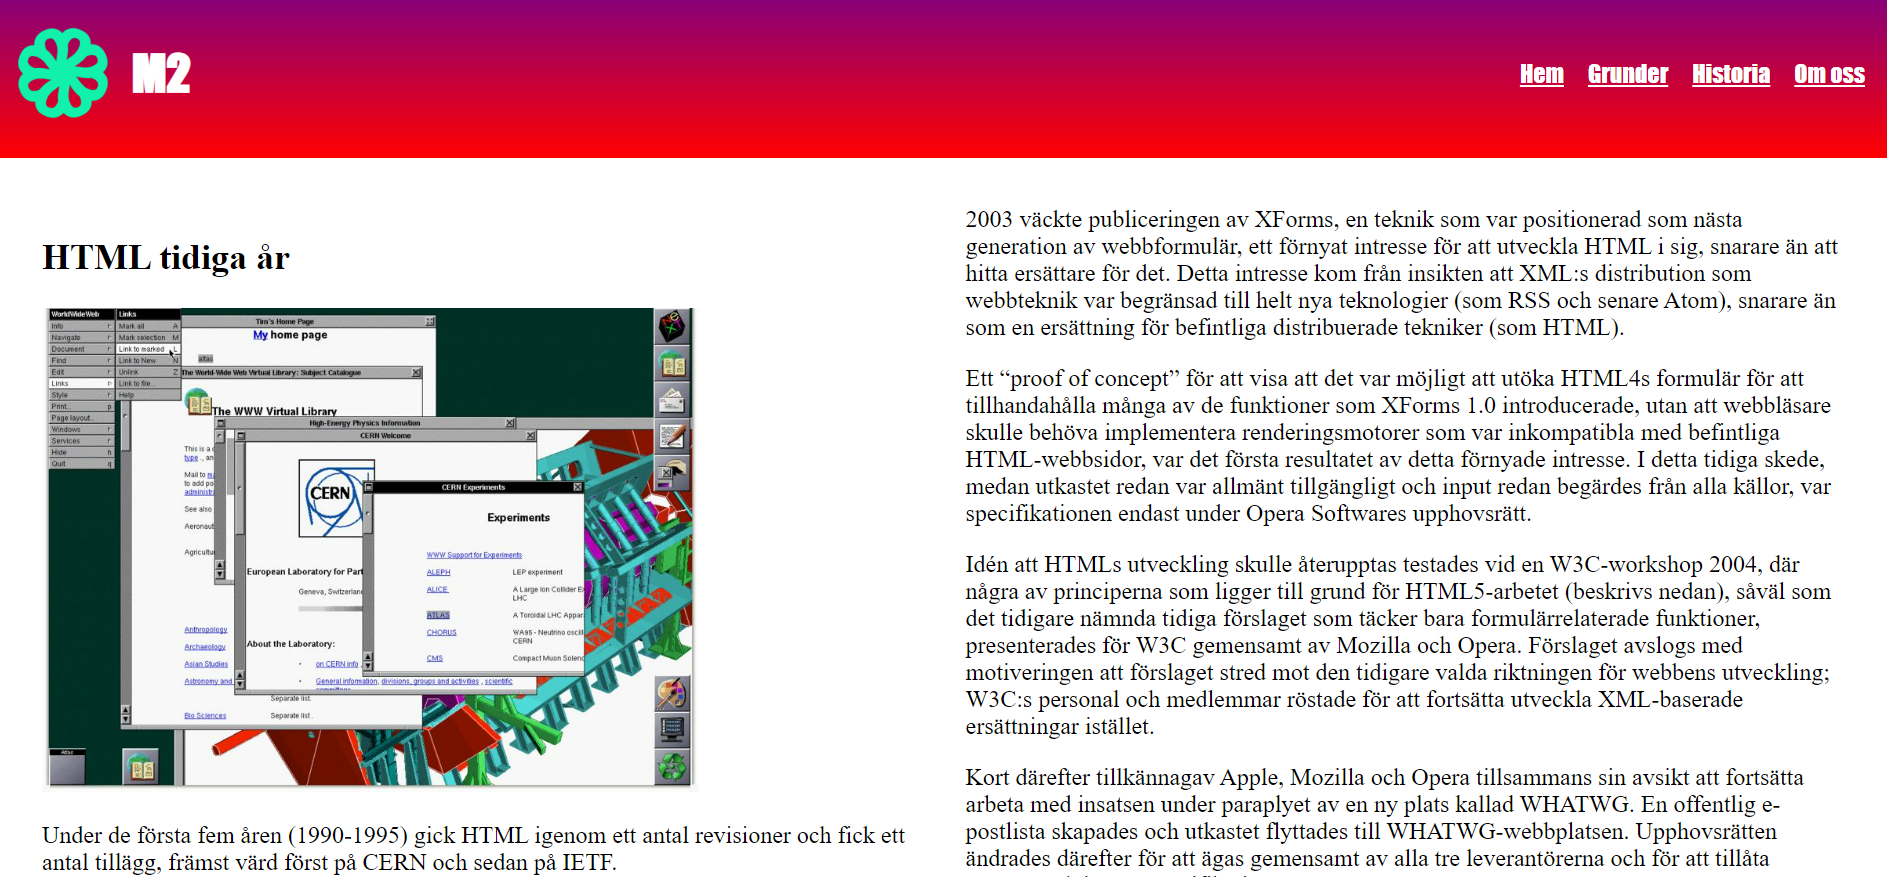
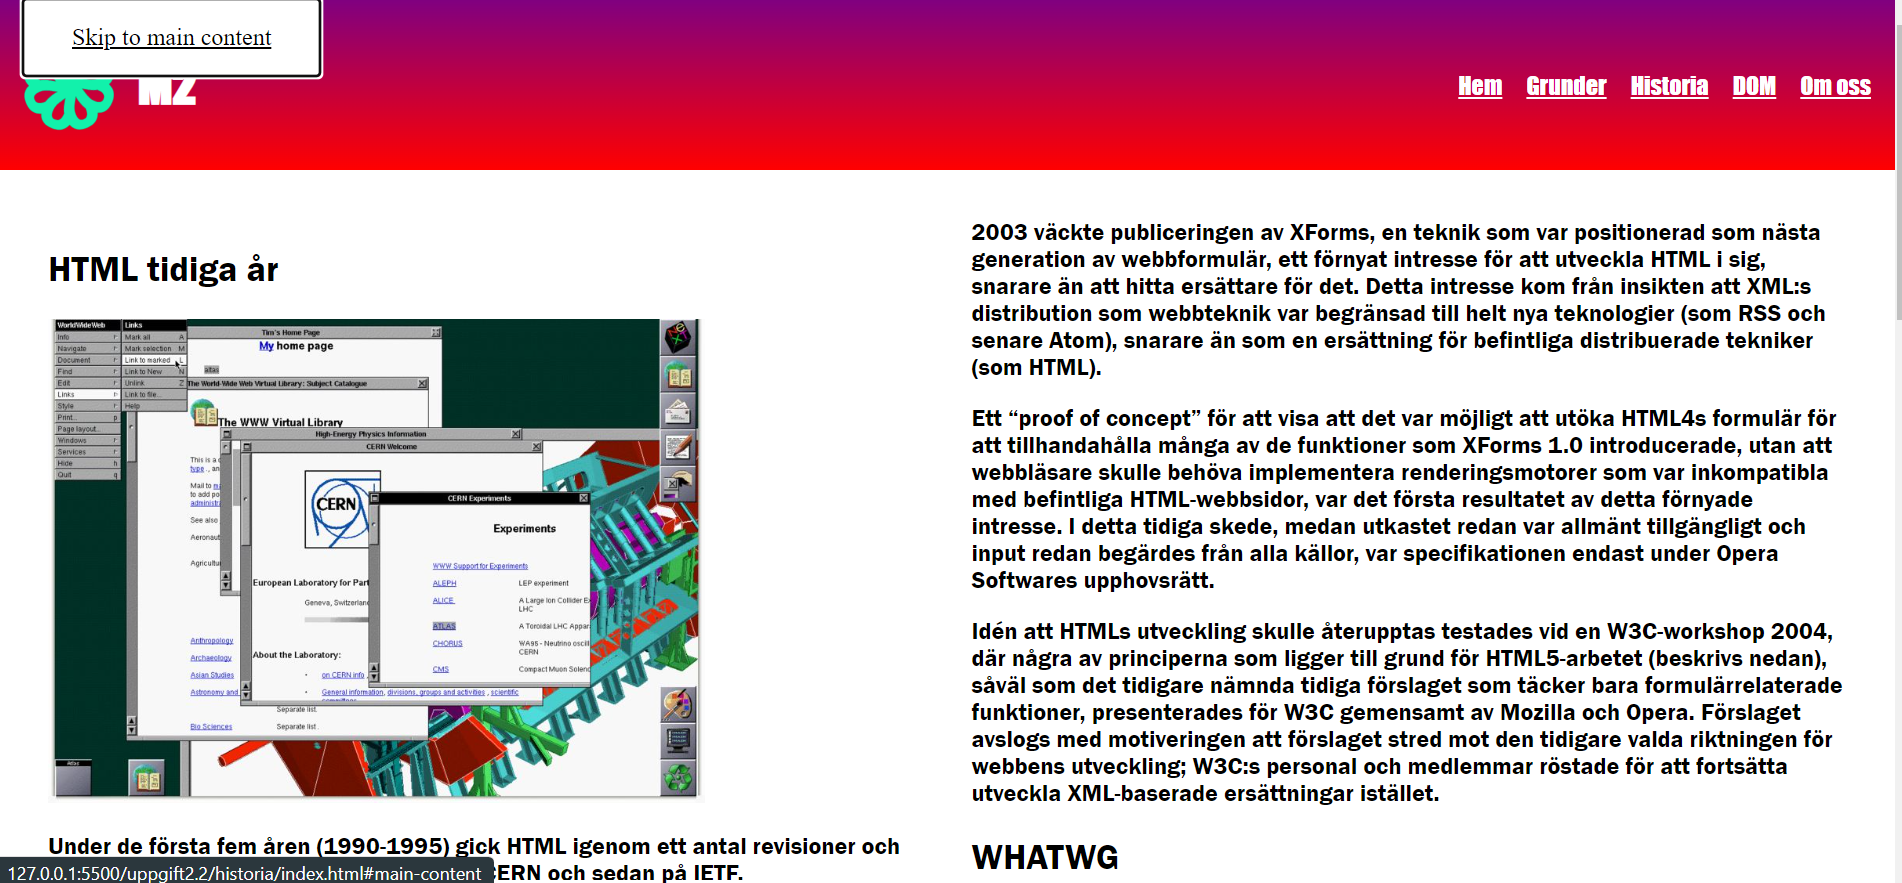
2.3 2.2

Changed region(s): [[0.0, 0.0, 1.0, 1.0]]

diff --git a/index.html b/index.html
@@ -110,8 +110,8 @@
             </section>
             <section class="about">
                 <div class="description">
-                    <h2>Uppgift 2.2</h2>
-                    <p>I den här uppgiften har vi använt oss av colums</p>
+                    <h2>Uppgift 2.2 + 2.3</h2>
+                    <p>I den här uppgiften har vi använt oss av colums och responsivitet samt navigation</p>
 
                 </div>
                 <div class="description-img"><a href="/uppgift2.2/historia/index.html"><img src="/img/webb-uppgift2.2.png"

diff --git a/uppgift2.2/css/style.css b/uppgift2.2/css/style.css
@@ -1,5 +1,5 @@
 body {
-    padding: 0;
+   
     margin: 0;
 
 }
@@ -8,7 +8,21 @@ body {
     scroll-behavior: smooth;
 
 }
-
+.skip-link{
+    position: fixed;
+    z-index:0;
+    top:0;
+    left:1rem;
+    padding:1rem 2rem;
+    color:black;
+    background-color: white;
+    translate: 0 -100%;
+    transition: translate 250ms ease-in-out;
+}
+.skip-link:focus{
+    translate: 0;
+    z-index: 9906;
+}
 header {
     display: flex;
     justify-content: space-between;

diff --git a/uppgift2.2/index.html b/uppgift2.2/index.html
@@ -9,6 +9,7 @@
 </head>
 
 <body>
+    <a class="skip-link" href="#first-link">Skip to main content</a>
     <header>
 
         <div class="title-logo">

diff --git a/css/style.css b/css/style.css
@@ -14,6 +14,7 @@ html {
     column-gap: 3rem;
     padding: 1rem;
     align-items: center;
+    margin-inline: 4rem;
 
 }
 
